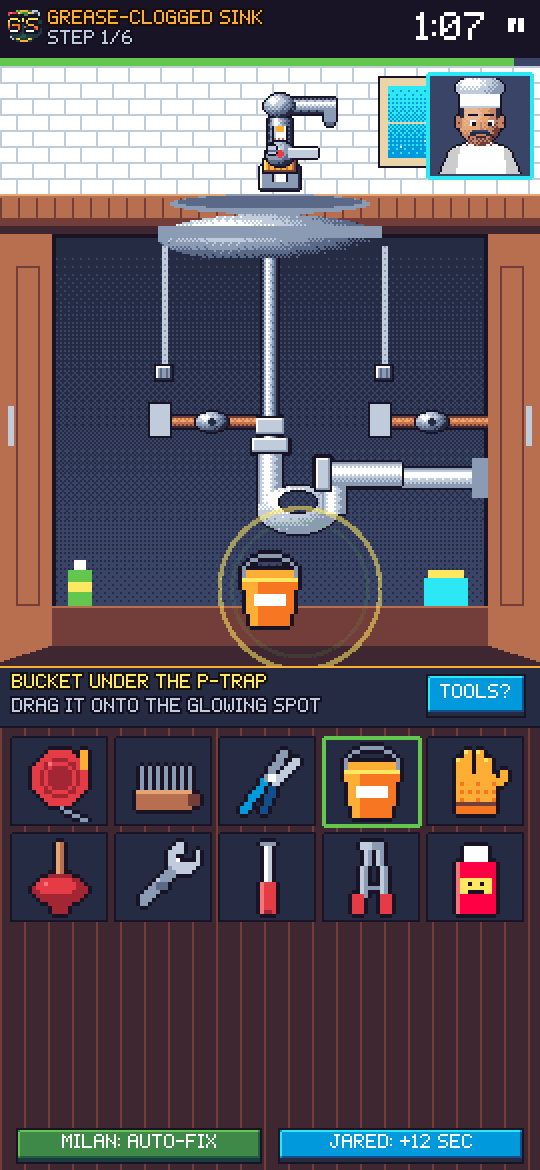
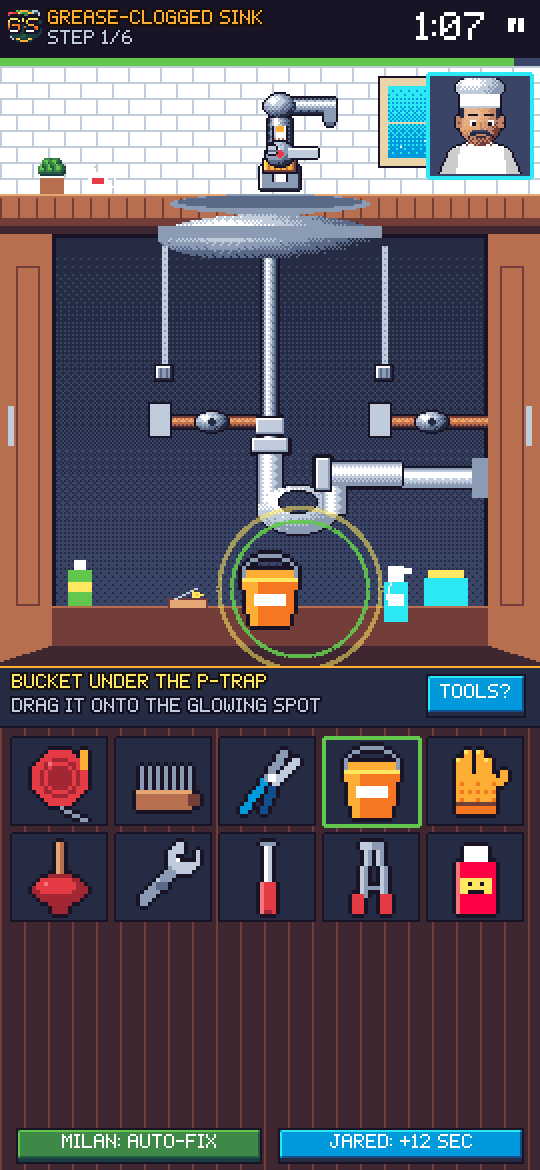
Props in every repair room; sweep-the-camera roots step; tributes to the crew
- Background jokes in each room (fishing-boat painting, lava lamp, rainbow mat, husky fur, cat poster,
  wine rack, surfboard + lights, rain boots, raccoon eyes, gnome, flamingo, banana slugs, crow...),
  all clear of the repair anchors and the customer portrait
- Sewer camera: the roots are now found by sweeping a camera light around a dark monitor (new 'scan'
  step type) instead of tapping small containers, which missed taps
- About + character sheet: a word from the boss about Dalton, Milan and Jared

diff --git a/src/art/fixtures.js b/src/art/fixtures.js
@@ -20,6 +20,45 @@ function wheel(p, cx, cy, r, ramp = RAMP.red) { p.ring(cx, cy, r, r, ramp[1]); p
 function concrete(p, x, y, w, h) { p.rect(x, y, w, h, C.slate); p.dither(x, y, w, h, C.steel, 0.15); p.dither(x, y, w, h, C.storm, 0.12); }
 function blocks(p, x, y, w, h) { concrete(p, x, y, w, h); for (let j = y; j < y + h; j += 16) { p.hline(x, j, w, C.storm); for (let i = x + ((j - y) / 16 % 2) * 16; i < x + w; i += 32) p.vline(i, j, 16, C.storm); } }
 
+
+// ------------------------------------------------------------------ FUN PROPS
+// Little background jokes per room (like Timmy's kayak and Boy the squirrel). Pure decoration: kept clear of
+// every anchor the repair steps use and of the customer portrait (top right).
+const PROP = {
+  tp(bg, x, y) { bg.rect(x, y, 18, 3, C.silver); bg.rect(x + 1, y + 3, 16, 12, C.white); bg.rect(x + 1, y + 3, 16, 2, C.silver); bg.vline(x + 9, y + 3, 12, C.silver); bg.rect(x + 12, y + 15, 5, 10, C.white); },
+  fishPic(bg, x, y) { bg.rect(x, y, 44, 32, C.brown); bg.rect(x + 3, y + 3, 38, 14, C.cyan); bg.rect(x + 3, y + 17, 38, 12, C.blue); bg.poly([[x + 12, y + 17], [x + 32, y + 17], [x + 28, y + 23], [x + 15, y + 23]], C.red); bg.rect(x + 20, y + 8, 2, 9, C.white); bg.poly([[x + 22, y + 8], [x + 29, y + 14], [x + 22, y + 14]], C.white); bg.px(x + 36, y + 7, C.yellow); },
+  mags(bg, x, y) { [[C.red, 0], [C.cyan, 3], [C.gold, 6], [C.lime, 9]].forEach(([c, d]) => { bg.rect(x + (d % 4), y - d, 30, 3, c); bg.hline(x + (d % 4) + 2, y - d + 1, 20, C.white); }); },
+  lava(bg, x, y) { bg.poly([[x + 4, y], [x + 12, y], [x + 16, y + 30], [x, y + 30]], C.hot); bg.ellipse(x + 8, y + 10, 3, 4, C.yellow); bg.ellipse(x + 7, y + 21, 4, 3, C.yellow); bg.rect(x + 2, y - 5, 12, 5, C.silver); bg.poly([[x - 2, y + 30], [x + 18, y + 30], [x + 15, y + 42], [x + 1, y + 42]], C.silver); },
+  cactus(bg, x, y) { bg.rect(x, y + 18, 16, 12, C.clay); bg.rect(x + 5, y, 6, 20, C.green); bg.rect(x + 1, y + 6, 4, 3, C.green); bg.rect(x + 1, y + 3, 2, 5, C.green); bg.rect(x + 11, y + 9, 4, 3, C.green); bg.rect(x + 13, y + 5, 2, 6, C.green); bg.px(x + 8, y - 1, C.hot); },
+  plant(bg, x, y) { bg.poly([[x + 4, y + 30], [x + 26, y + 30], [x + 23, y + 46], [x + 7, y + 46]], C.clay); [[x + 6, y + 10, -1], [x + 24, y + 8, 1], [x + 15, y, 0], [x + 10, y + 20, -1], [x + 22, y + 20, 1]].forEach(([cx, cy]) => { bg.blob(cx, cy, 8, 6, RAMP.green); bg.line(cx, cy, x + 15, y + 30, C.forest); }); },
+  rainbowMat(bg, x, y) { [C.red, C.flame, C.yellow, C.lime, C.blue, C.plum].forEach((c, i) => bg.rect(x, y + i * 3, 46, 3, c)); },
+  mug(bg, x, y) { bg.rect(x, y, 10, 11, C.white); bg.ring(x + 11, y + 5, 3, 3, C.white); bg.rect(x + 2, y + 3, 6, 3, C.red); bg.px(x + 3, y - 3, C.silver); bg.px(x + 6, y - 5, C.silver); },
+  herbs(bg, x, y) { bg.rect(x, y + 8, 12, 8, C.clay); for (let i = 0; i < 5; i++) bg.blob(x + 2 + i * 2, y + 4 - (i % 2) * 3, 3, 3, RAMP.green); },
+  trap(bg, x, y) { bg.rect(x, y, 20, 6, C.tan); bg.box(x, y, 20, 6, C.brown); bg.line(x + 3, y, x + 14, y - 5, C.silver); bg.poly([[x + 12, y - 4], [x + 19, y - 1], [x + 12, y]], C.yellow); bg.px(x + 14, y - 2, C.gold); },
+  spray(bg, x, y) { bg.rect(x, y + 8, 12, 20, C.cyan); bg.rect(x + 2, y, 8, 8, C.white); bg.rect(x + 9, y + 1, 5, 3, C.white); bg.line(x + 3, y + 8, x + 1, y + 16, C.white); bg.rect(x + 2, y + 14, 8, 6, C.white); },
+  tpPyramid(bg, x, y) { for (let r = 0; r < 3; r++) for (let i = 0; i < 3 - r; i++) { const px = x + i * 11 + r * 5, py = y - r * 10; bg.rect(px, py, 10, 10, C.white); bg.ellipse(px + 5, py + 5, 2, 2, C.silver); } },
+  cup(bg, x, y) { bg.rect(x, y + 6, 9, 10, C.cyan); bg.line(x + 3, y + 6, x + 1, y - 2, C.red); bg.line(x + 6, y + 6, x + 8, y - 1, C.lime); bg.rect(x, y - 3, 3, 2, C.white); bg.rect(x + 7, y - 2, 3, 2, C.white); },
+  fur(bg, x, y) { bg.blob(x, y, 9, 6, [C.steel, C.silver, C.white]); for (let i = 0; i < 8; i++) bg.px(x - 10 + (i * 5) % 20, y - 5 + (i * 3) % 10, C.silver); },
+  loofah(bg, x, y) { bg.blob(x, y, 8, 7, [C.hot, C.pink, C.white]); bg.line(x + 6, y - 5, x + 12, y - 12, C.pink); },
+  poster(bg, x, y) { bg.rect(x, y, 30, 38, C.white); bg.box(x, y, 30, 38, C.steel); bg.rect(x + 3, y + 3, 24, 22, C.cyan); bg.hline(x + 3, y + 6, 24, C.brown); bg.blob(x + 15, y + 13, 5, 4, [C.clay, C.tan]); bg.rect(x + 12, y + 6, 2, 5, C.clay); bg.rect(x + 16, y + 6, 2, 5, C.clay); bg.px(x + 13, y + 12, C.ink); bg.px(x + 17, y + 12, C.ink);
+    bg.art(x + 3, y + 28, ['#.#.###.#..#', '###.#.#.##.#', '#.#.###.#.##'], { '#': C.ink }); },
+  tpPack(bg, x, y) { bg.rect(x, y, 40, 24, C.white); bg.box(x, y, 40, 24, C.silver); for (let i = 0; i < 4; i++) bg.ellipse(x + 5 + i * 10, y + 4, 4, 2, C.silver); bg.rect(x + 4, y + 11, 32, 7, C.red); bg.art(x + 7, y + 12, ['###.###.#.#.#.#', '#...#.#.##..##.', '###.###.#.#.#.#'], { '#': C.white }); },
+  wine(bg, x, y) { bg.rect(x, y, 40, 44, C.brown); bg.box(x, y, 40, 44, C.umber); for (let r = 0; r < 3; r++) for (let i = 0; i < 3; i++) { bg.ellipse(x + 7 + i * 13, y + 8 + r * 14, 5, 5, C.umber); bg.ellipse(x + 7 + i * 13, y + 8 + r * 14, 3, 3, [C.crimson, C.forest, C.plum][(r + i) % 3]); } },
+  surfboard(bg, x, y) { bg.poly([[x + 6, y], [x + 14, y + 12], [x + 14, y + 110], [x + 7, y + 124], [x, y + 110], [x, y + 12]], C.yellow); bg.vline(x + 7, y + 6, 114, C.flame); bg.rect(x + 1, y + 50, 12, 6, C.cyan); },
+  lights(bg, x0, x1, y) { for (let x = x0; x < x1; x += 2) bg.px(x, y + Math.round(Math.sin(x / 9) * 3), C.forest); for (let x = x0 + 4, i = 0; x < x1; x += 12, i++) bg.rect(x, y + Math.round(Math.sin(x / 9) * 3) + 1, 3, 4, [C.red, C.lime, C.gold, C.cyan][i % 4]); },
+  cooler(bg, x, y) { bg.rect(x, y, 40, 22, C.blue); bg.rect(x, y, 40, 6, C.white); bg.rect(x + 14, y - 3, 12, 3, C.white); bg.rect(x + 16, y + 10, 8, 4, C.navy); },
+  boots(bg, x, y) { for (const dx of [0, 14]) { bg.rect(x + dx, y, 10, 20, C.gold); bg.rect(x + dx, y + 14, 14, 6, C.gold); bg.hline(x + dx, y + 19, 14, C.brown); bg.hline(x + dx, y, 10, C.yellow); } },
+  umbrella(bg, x, y) { bg.poly([[x + 10, y], [x + 18, y + 14], [x + 13, y + 70], [x + 7, y + 70], [x + 2, y + 14]], C.red); bg.vline(x + 10, y + 70, 16, C.ink); bg.line(x + 10, y + 86, x + 14, y + 90, C.ink); bg.vline(x + 10, y + 4, 60, C.crimson); },
+  eyes(bg, x, y) { for (const dx of [0, 7]) { bg.rect(x + dx, y, 3, 2, C.yellow); bg.px(x + dx + 1, y, C.white); } },
+  web(bg, x, y) { for (let a = 0; a < 5; a++) bg.line(x, y, x + Math.cos(a * 0.35) * 28, y + Math.sin(a * 0.35) * 28, C.steel); for (let r = 8; r < 28; r += 7) for (let a = 0; a < 4; a++) bg.line(x + Math.cos(a * 0.35) * r, y + Math.sin(a * 0.35) * r, x + Math.cos((a + 1) * 0.35) * r, y + Math.sin((a + 1) * 0.35) * r, C.steel); bg.rect(x + 18, y + 14, 3, 3, C.ink); },
+  frisbee(bg, x, y) { bg.ellipse(x, y, 11, 4, C.hot); bg.ellipse(x, y - 1, 7, 2, C.pink); },
+  gnome(bg, x, y) { bg.poly([[x + 8, y], [x + 15, y + 16], [x + 1, y + 16]], C.red); bg.rect(x + 3, y + 16, 10, 5, C.sand); bg.poly([[x + 3, y + 20], [x + 13, y + 20], [x + 8, y + 30]], C.white); bg.rect(x + 2, y + 24, 12, 14, C.blue); bg.rect(x + 2, y + 38, 5, 3, C.brown); bg.rect(x + 9, y + 38, 5, 3, C.brown); bg.px(x + 6, y + 18, C.ink); bg.px(x + 10, y + 18, C.ink); },
+  flamingo(bg, x, y) { bg.vline(x + 8, y + 24, 30, C.ink); bg.ellipse(x + 8, y + 20, 10, 6, C.hot); bg.thick(x + 12, y + 18, x + 16, y + 2, 2, C.hot); bg.ellipse(x + 16, y + 2, 3, 3, C.hot); bg.rect(x + 18, y + 2, 4, 2, C.ink); bg.px(x + 16, y + 1, C.ink); },
+  slug(bg, x, y) { bg.ellipse(x, y, 10, 3, C.yellow); bg.ellipse(x - 2, y - 1, 6, 2, C.gold); bg.px(x + 8, y - 4, C.gold); bg.px(x + 10, y - 4, C.gold); for (let i = -6; i < 6; i += 4) bg.px(x + i, y - 1, C.brown); },
+  crow(bg, x, y) { bg.ellipse(x, y, 9, 6, C.ink); bg.ellipse(x + 8, y - 5, 5, 4, C.ink); bg.poly([[x + 12, y - 6], [x + 17, y - 4], [x + 12, y - 3]], C.slate); bg.px(x + 9, y - 6, C.white); bg.poly([[x - 8, y - 2], [x - 16, y + 2], [x - 8, y + 3]], C.ink); bg.vline(x - 2, y + 6, 5, C.slate); bg.vline(x + 3, y + 6, 5, C.slate); },
+  hoseReel(bg, x, y) { bg.rect(x, y + 30, 44, 4, C.forest); bg.ring(x + 22, y + 16, 16, 16, C.forest); for (let r = 6; r < 16; r += 3) bg.ring(x + 22, y + 16, r, r, C.green); bg.ellipse(x + 22, y + 16, 4, 4, C.gold); bg.vline(x + 4, y + 16, 18, C.forest); bg.vline(x + 40, y + 16, 18, C.forest); },
+};
+
 // ------------------------------------------------------------------ TOILET
 function toilet(scene, v) {
   const bg = new PX(SW, SH);
@@ -33,6 +72,9 @@ function toilet(scene, v) {
   // valve on wall + pipe stub
   bg.rect(76, 242, 16, 8, C.silver); bg.box(76, 242, 16, 8, C.steel);
   bg.cylH(84, 232, 10, 6, RAMP.chrome); nut(bg, 90, 230, 6, 10);
+  if (v === 'clog') { PROP.fishPic(bg, 14, 70); PROP.tp(bg, 214, 150); PROP.mags(bg, 20, 270); }
+  if (v === 'tank') { PROP.lava(bg, 222, 200); PROP.cactus(bg, 26, 214); }
+  if (v === 'base') { PROP.rainbowMat(bg, 206, 262); PROP.plant(bg, 16, 196); }
   bg.outline(C.ink);
   bg.toTexture(scene, 'fx_toilet_' + v);
 
@@ -130,6 +172,8 @@ function sink(scene, v) {
   bg.rect(34, 252, 12, 18, C.lime); bg.rect(37, 247, 6, 5, C.white); bg.rect(34, 258, 12, 5, C.yellow);
   bg.rect(212, 256, 22, 14, C.cyan); bg.rect(214, 252, 18, 4, C.yellow);
   if (v === 'disposal') { bg.rect(30, 236, 16, 22, C.silver); bg.box(30, 236, 16, 22, C.steel); bg.rect(35, 240, 2, 4, C.ink); bg.rect(40, 240, 2, 4, C.ink); bg.rect(35, 250, 2, 4, C.ink); bg.rect(40, 250, 2, 4, C.ink); }
+  if (!vanity) { PROP.herbs(bg, 20, 48); PROP.mug(bg, 44, 53); PROP.trap(bg, 84, 266); PROP.spray(bg, 192, 250); }
+  if (v === 'vanity') { PROP.cup(bg, 34, 48); PROP.tpPyramid(bg, 56, 258); }
   bg.outline(C.ink);
   bg.toTexture(scene, 'fx_sink_' + v);
 
@@ -250,6 +294,7 @@ function shower(scene) {
   // shampoo army
   [[20, 30, C.hot], [34, 26, C.lime], [48, 32, C.gold], [230, 260, C.mauve]].forEach(([x, y, c]) => { bg.rect(x, y, 10, 14, c); bg.rect(x + 3, y - 3, 4, 3, C.white); });
   bg.ellipse(240, 40, 12, 8, C.yellow); bg.px(236, 37, C.white); // rubber duck-ish
+  PROP.fur(bg, 60, 236); PROP.fur(bg, 214, 128); PROP.fur(bg, 96, 90); PROP.loofah(bg, 32, 262);
   bg.outline(C.ink);
   bg.toTexture(scene, 'fx_shower');
   const parts = {};
@@ -332,6 +377,8 @@ function basement(scene, v) {
     // laundry sink
     bg.rect(226, 128, 44, 30, C.silver); bg.box(226, 128, 44, 30, C.ink); bg.rect(240, 122, 4, 8, C.silver);
   }
+  PROP.tpPack(bg, 86, 256);
+  if (v === 'prv') PROP.poster(bg, 98, 124); else PROP.wine(bg, 96, 204);
   bg.outline(C.ink);
   bg.toTexture(scene, 'fx_basement_' + v);
   const parts = {};
@@ -384,6 +431,7 @@ function heater(scene) {
   bg.rect(184, 50, 10, 8, C.gold); pipeV(bg, 188, 58, 180, 6);
   // burner panel
   bg.rect(112, 222, 46, 22, C.storm); bg.box(112, 222, 46, 22, C.ink); bg.rect(118, 228, 34, 10, C.ink);
+  PROP.surfboard(bg, 26, 122); PROP.lights(bg, 4, 266, 10); PROP.cooler(bg, 200, 240);
   bg.outline(C.ink);
   bg.toTexture(scene, 'fx_heater');
   const parts = {};
@@ -417,6 +465,7 @@ function sump(scene) {
   bg.rect(222, 96, 20, 28, C.white); bg.box(222, 96, 20, 28, C.steel); for (const y of [102, 114]) { bg.rect(228, y, 2, 4, C.ink); bg.rect(234, y, 2, 4, C.ink); }
   // floating drum kit (flavor)
   bg.ellipse(240, 200, 18, 12, C.red); bg.ring(240, 200, 18, 12, C.silver); bg.ellipse(240, 196, 16, 6, C.white);
+  PROP.umbrella(bg, 30, 180); PROP.boots(bg, 8, 274);
   bg.outline(C.ink);
   bg.toTexture(scene, 'fx_sump');
   const parts = {};
@@ -450,6 +499,7 @@ function crawl(scene) {
   for (let r = 0; r < 3; r++) for (let i = 0; i < 5 - r; i++) { const x = 186 + i * 14 + r * 7, y = 262 - r * 16; bg.cylV(x, y, 12, 15, RAMP.chrome); bg.rect(x, y + 4, 12, 7, [C.red, C.gold, C.lime][r]); }
   pipeH(bg, 0, 146, SW, 10);
   for (let x = 20; x < SW; x += 70) { bg.rect(x, 60, 2, 86, C.steel); bg.rect(x - 3, 144, 8, 2, C.steel); }
+  PROP.eyes(bg, 232, 118); PROP.web(bg, 16, 12); PROP.frisbee(bg, 56, 244);
   bg.outline(C.ink);
   bg.toTexture(scene, 'fx_crawl');
   const parts = {};
@@ -478,6 +528,7 @@ function yard(scene) {
   // cleanout stub
   bg.ellipse(140, 232, 22, 8, C.brown);
   bg.cylV(126, 196, 28, 36, RAMP.pvc); bg.ellipse(140, 196, 14, 4, C.white);
+  PROP.gnome(bg, 208, 196); PROP.flamingo(bg, 236, 146); PROP.slug(bg, 190, 280);
   bg.outline(C.ink);
   bg.toTexture(scene, 'fx_yard');
   const parts = {};
@@ -497,6 +548,7 @@ function bib(scene) {
   bg.rect(12, 12, 70, 10, C.ink);
   // bib body protruding
   bg.rect(128, 134, 24, 24, C.silver); bg.box(128, 134, 24, 24, C.steel); bg.cylH(146, 140, 34, 12, RAMP.brass); bg.cylV(172, 146, 12, 24, RAMP.brass); bg.rect(170, 168, 16, 6, C.gold);
+  PROP.hoseReel(bg, 18, 250); PROP.crow(bg, 232, 244); PROP.slug(bg, 70, 196);
   bg.outline(C.ink);
   bg.toTexture(scene, 'fx_bib');
   const parts = {};

diff --git a/src/scenes/Repair.js b/src/scenes/Repair.js
@@ -1,5 +1,5 @@
 import Phaser from 'phaser';
-import { W, H, txt, button, wipeTo, wipeIn, bubble, banner, floatText, panel, hitZone, isTouch } from '../core/ui.js';
+import { W, H, txt, setTxt, button, wipeTo, wipeIn, bubble, banner, floatText, panel, hitZone, isTouch } from '../core/ui.js';
 import { audio } from '../core/audio.js';
 import { progress } from '../core/save.js';
 import { C, hex } from '../core/palette.js';
@@ -13,7 +13,7 @@ const DRAG_SHOWS = { cartridge: 'cartNew', flapper: 'flapperNew', waxring: 'waxN
 const HOW = {
   turn: s => (s.dir > 0 ? 'CIRCLE CLOCKWISE  >>' : '<<  CIRCLE COUNTER-CLOCKWISE'), crank: () => 'CRANK CLOCKWISE. EASE OFF WHEN IT BINDS!', dial: () => 'TURN TO SET THE NEEDLE IN THE GREEN, THEN HOLD',
   rhythm: () => 'TAP WHEN THE MARKER IS IN THE GREEN', hold: s => `HOLD... RELEASE IN THE GREEN (${s.label || 'POWER'})`, drag: () => 'DRAG IT ONTO THE GLOWING SPOT',
-  pull: () => 'DRAG ALONG THE ARROW. DON\'T LET GO!', scrub: () => 'SCRUB BACK AND FORTH!', taps: () => 'TAP EVERY ONE!', tap: () => 'TAP IT!',
+  pull: () => 'DRAG ALONG THE ARROW. DON\'T LET GO!', scrub: () => 'SCRUB BACK AND FORTH!', taps: () => 'TAP EVERY ONE!', tap: () => 'TAP IT!', scan: () => 'DRAG THE CAMERA AROUND TO FIND THEM!',
 };
 const BAD_IDEAS = ['POUR DRAIN-O-MATIC IN IT', 'HIT IT WITH A HAMMER', 'CALL NORTHWEST FOR ADVICE', 'WIGGLE IT AND PRAY', 'DUCT TAPE THE WHOLE THING', 'SEND JARED FOR COFFEE', 'FLUSH IT AND RUN LIKE HELL', 'SNIFF IT TO DIAGNOSE', 'BLAME THE LAST PLUMBER', 'TAKE A DUMP IN IT FOR LUCK'];
 const GRIPES = ['ARE YOU SURE YOU\'RE A PLUMBER?', 'MY CAT COULD DO THAT BETTER.', 'IS THAT... SUPPOSED TO HAPPEN?', 'I\'M TIMING YOU, YOU KNOW.', 'NORTHWEST DID THAT TOO. BAD SIGN.', 'OH GOD. OH NO.', 'WHAT WAS THAT NOISE?!', 'WHAT THE HELL IS THAT SMELL?!', 'DID YOU JUST FART IN MY BATHROOM?', 'JESUS CHRIST, MY FLOOR!', 'I\'M PAYING YOU FOR THIS SHIT?!', 'PULL YOUR PANTS UP, I CAN SEE THE MOON.'];
@@ -247,6 +247,7 @@ export class Repair extends Phaser.Scene {
     if (s.type === 'pull') { A.part = this.parts[s.target]; A.base = A.part ? { x: A.part.x, y: A.part.y } : { x: a.x, y: a.y }; }
     if (s.type === 'scrub') { A.lastX = null; A.target = this.parts[s.target] || null; if (A.target) A.target.setVisible(true).setAlpha(1); }
     if (s.type === 'taps') this.spawnSpots(s);
+    if (s.type === 'scan') this.spawnScan(s);
     if (s.type === 'turn' || s.type === 'crank') { A.need = s.turns * 360 * (this.milan ? 0.8 : 1); A.wrong = 0; A.jamAt = []; if (s.type === 'crank') for (let j = 1; j <= s.jams; j++) A.jamAt.push(A.need * j / (s.jams + 1)); A.strain = 0; A.cable = 0; }
     if (s.type === 'tap') { /* just tap the anchor */ }
   }
@@ -254,7 +255,7 @@ export class Repair extends Phaser.Scene {
     this.phase = 'done';
     [this.ring, this.cursor, this.gauge].forEach(o => o && o.destroy()); this.ring = this.cursor = this.gauge = null;
     (this.spots || []).forEach(sp => sp.destroy()); this.spots = [];
-    if (this.monitor) { this.monitor.destroy(); this.monitor = null; }
+    if (this.monitor) { this.monitor.destroy(); this.monitor = null; } this.lamp = null;
     this.gfx.clear(); this.act = null; this.dragging = false;
   }
   near(p, a, extra = 20) { return Phaser.Math.Distance.Between(p.x, p.y, a.x, a.y) < a.r + extra; }
@@ -268,9 +269,11 @@ export class Repair extends Phaser.Scene {
     if (s.type === 'drag' && Phaser.Math.Distance.Between(p.x, p.y, this.cursor.x, this.cursor.y) < 36) { this.dragging = true; this.tweens.killTweensOf(this.cursor); }
     if (s.type === 'pull' && this.near(p, a, 30)) { A.start = { x: p.x, y: p.y }; A.active = true; }
     if (s.type === 'scrub') { A.lastX = p.x; A.lastY = p.y; }
+    if (s.type === 'scan') this.scanAt(p.x, p.y);
     if (s.type === 'tap' && this.near(p, a, 14)) { const pt = this.parts[s.target]; if (pt) this.tweens.add({ targets: pt, y: pt.y + 3, yoyo: true, duration: 90 }); if (s.fx && s.fx.includes('flush')) audio.sfx('flush'); else audio.sfx('click'); this.completeStep(); }
   }
   onMove(p) {
+    if (this.phase === 'act' && this.act && this.step.type === 'scan' && (p.isDown || !isTouch)) return this.scanAt(p.x, p.y); // mouse can just hover
     if (this.phase !== 'act' || !this.act || !p.isDown) return;
     const s = this.step, A = this.act, a = this.anchor(s.target || s.to);
     if ((s.type === 'turn' || s.type === 'crank' || s.type === 'dial') && A.active) {
@@ -362,6 +365,55 @@ export class Repair extends Phaser.Scene {
     if (s.target === 'hair') bubble(this, W - 60, SY + 60, pick(['OH MY GOD.', 'IS THAT... ALIVE?', "I'M GONNA BE SICK."]), { dur: 1400, tail: 'up' });
     if (s.target === 'junk') floatText(this, W / 2, SY + 100, 'ONE SMARTWATCH. 12,000 STEPS.', C.cyan, 160);
     this.completeStep();
+  }
+  // Sewer camera: roots hide in the dark pipe until the camera light passes over them.
+  spawnScan(s) {
+    this.spots = [];
+    const cx = W / 2, cy = SY + 110, mw = 200, mh = 130;
+    const m = this.monitor = this.add.container(0, 0).setDepth(44);
+    m.add(this.add.rectangle(cx, cy, mw, mh, hex(C.ink)).setStrokeStyle(3, hex(C.slate)));
+    for (let r = 60; r > 4; r -= 8) m.add(this.add.ellipse(cx, cy, r * 1.6, r * 1.1, [hex(C.umber), hex(C.brown), hex(C.clay)][(r / 8) % 3]));
+    m.add(this.add.ellipse(cx, cy, 16, 11, hex(C.ink)));
+    // it's dark down there, except where the camera light points
+    m.add(this.add.rectangle(cx, cy, mw - 4, mh - 4, hex(C.ink), 0.78));
+    m.add(txt(this, cx - 96, cy - 62, 'CAM 1  REC *  32 FT', { color: C.lime }));
+    this.scanLeft = txt(this, cx - 96, cy + 54, `ROOTS FOUND 0/${s.count}`, { color: C.gold }); m.add(this.scanLeft);
+    // the camera light follows your finger (or mouse); the tool icon rides along with it
+    this.lamp = this.add.circle(cx, cy, 28, hex(C.sand), 0.38).setStrokeStyle(2, hex(C.yellow), 0.9).setDepth(49);
+    m.add(this.lamp);
+    if (this.ring) this.ring.setVisible(false);
+    if (this.cursor) this.cursor.setPosition(cx + 24, cy - 22);
+    // hidden roots, spread across the pipe wall
+    const pts = []; let seed = 7 + this.ji * 13;
+    const rnd = () => { seed = (seed * 9301 + 49297) % 233280; return seed / 233280; };
+    while (pts.length < s.count) {
+      const x = cx - mw / 2 + 22 + rnd() * (mw - 44), y = cy - mh / 2 + 24 + rnd() * (mh - 40);
+      if (pts.every(([px, py]) => Math.hypot(px - x, py - y) > 46)) pts.push([x, y]);
+    }
+    this.need = pts.length; this.found = 0;
+    pts.forEach(([x, y]) => {
+      const sp = this.add.container(x, y).setDepth(48).setAlpha(0);
+      for (let k = 0; k < 6; k++) sp.add(this.add.rectangle(Phaser.Math.Between(-8, 8), Phaser.Math.Between(-8, 8), 2, Phaser.Math.Between(6, 14), hex(C.tan)).setAngle(Phaser.Math.Between(-60, 60)));
+      sp.rootX = x; sp.rootY = y; sp.found = false;
+      this.spots.push(sp);
+    });
+  }
+  scanAt(x, y) {
+    if (!this.lamp || this.phase !== 'act') return;
+    const cx = W / 2, cy = SY + 110;
+    this.lamp.setPosition(Phaser.Math.Clamp(x, cx - 96, cx + 96), Phaser.Math.Clamp(y, cy - 61, cy + 61));
+    if (this.cursor) this.cursor.setPosition(this.lamp.x + 24, this.lamp.y - 22);
+    for (const sp of this.spots) {
+      if (sp.found || Math.hypot(sp.rootX - this.lamp.x, sp.rootY - this.lamp.y) > 30) continue;
+      sp.found = true; this.found++;
+      audio.sfx('ding'); this.sparkle(sp.rootX, sp.rootY);
+      this.tweens.add({ targets: sp, alpha: 1, duration: 120 });
+      this.tweens.add({ targets: sp, angle: 10, yoyo: true, repeat: -1, duration: 300 });
+      sp.add(this.add.circle(0, 0, 13, 0xffffff, 0).setStrokeStyle(2, hex(C.red)));
+      floatText(this, sp.rootX, sp.rootY - 14, 'ROOT!', C.red, 160);
+      setTxt(this.scanLeft, `ROOTS FOUND ${this.found}/${this.need}`);
+      if (this.found >= this.need) this.time.delayedCall(450, () => { if (this.phase === 'act') this.completeStep(); });
+    }
   }
   spawnSpots(s) {
     this.spots = [];

diff --git a/src/dev/docs.js b/src/dev/docs.js
@@ -12,6 +12,7 @@ import { HEROES, RIVALS, DISTRICTS, ORDER, districtJobs } from '../data/content.
 import { JOBS, TOOL_INFO } from '../data/jobs.js';
 import { portrait, body } from '../art/people.js';
 import { houseTextures } from '../art/houses.js';
+import { HOMIE_TRIBUTES } from '../data/about.js';
 
 const sleep = ms => new Promise(r => setTimeout(r, ms));
 async function save(path, canvas) {
@@ -102,7 +103,7 @@ async function introSheet(game) {
 // Character sheet for The Homies: every mood, the full-body sprite, stats, perk and assist.
 function homiesSheet(scene) {
   const moods = ['happy', 'smug', 'neutral', 'worried', 'angry', 'yell'];
-  const colW = 420, pad = 30, W = HEROES.length * colW + pad * 2, H = 1070;
+  const colW = 420, pad = 30, W = HEROES.length * colW + pad * 2, H = 1140;
   const cv = document.createElement('canvas'); cv.width = W; cv.height = H;
   const x = cv.getContext('2d'); x.imageSmoothingEnabled = false; x.fillStyle = C.ink; x.fillRect(0, 0, W, H);
   const draw = (key, frame, dx, dy, k) => { const t = scene.textures.get(key); const fr = t.get(frame ?? '__BASE'); x.drawImage(t.getSourceImage(), fr.cutX, fr.cutY, fr.width, fr.height, dx, dy, fr.width * k, fr.height * k); return fr; };
@@ -113,7 +114,8 @@ function homiesSheet(scene) {
     x.fillStyle = C.night; x.fillRect(cx, y, w, H - y - pad); x.strokeStyle = h.color; x.lineWidth = 3; x.strokeRect(cx, y, w, H - y - pad);
     y += 16;
     const nm = new PX(120, 16); logoText(nm, 2, 2, h.name, 1, [C.brown, C.gold, C.yellow], { shadow: C.ink }); x.drawImage(nm.commit(), cx + 14, y, 360, 48); y += 58;
-    x.fillStyle = h.color; x.font = FONT.replace('{n}', 22); x.fillText(h.role, cx + 18, y); y += 22;
+    x.fillStyle = h.color; x.font = FONT.replace('{n}', 22); x.fillText(h.role, cx + 18, y); y += 26;
+    x.fillStyle = C.gold; x.font = 'italic ' + FONT.replace('{n}', 16); y = wrap(x, HOMIE_TRIBUTES[h.id], cx + 18, y, w - 36, 20) + 2;
     // six moods, 3 x 2
     moods.forEach((m, k) => { const px = cx + 18 + (k % 3) * 128, py = y + Math.floor(k / 3) * 150; draw(portrait(scene, h.id, h.look, m), undefined, px, py, 2.5); x.fillStyle = C.slate; x.font = FONT.replace('{n}', 15); x.fillText(m.toUpperCase(), px + 4, py + 136); });
     y += 310;

diff --git a/src/data/jobs.js b/src/data/jobs.js
@@ -10,6 +10,7 @@
 //   scrub  - scrub back and forth until clean
 //   taps   - tap every hotspot (leaks, roots, debris)
 //   tap    - tap one thing (a handle, a button)
+//   scan   - sweep a camera light around a monitor; whatever it passes over is found (sewer camera)
 // Anchor names (target / to) are defined by each scene in art/fixtures.js.
 
 const TOOLS_BASE = ['hand'];
@@ -217,7 +218,7 @@ export const JOBS = [
     call: 'EVERY DRAIN IN THE HOUSE GURGLES. THE BASEMENT SMELLS OF... POOR PEOPLE. KINDLY REMEDY THIS.', decoys: ['drano', 'hammer'],
     steps: [
       { t: 'OPEN THE CLEANOUT CAP', tool: 'wrench', type: 'turn', target: 'cap', dir: -1, turns: 1.5, tip: 'CAREFUL - A BACKED-UP LINE WILL BURP WHEN THE CAP COMES OFF. STAND TO THE SIDE.' , fx: ['away:cap'] },
-      { t: 'CAMERA: FIND THE ROOTS', tool: 'camera', type: 'taps', target: 'screen', count: 4, tip: 'OLD CLAY PIPE + 100-YEAR-OLD CEDARS = ROOTS IN EVERY JOINT. SPOT THEM ALL.' },
+      { t: 'CAMERA: FIND THE ROOTS', tool: 'camera', type: 'scan', target: 'screen', count: 4, tip: 'OLD CLAY PIPE + 100-YEAR-OLD CEDARS = ROOTS IN EVERY JOINT. SWEEP THE CAMERA AND SPOT THEM ALL.' },
       { t: 'DRUM AUGER + ROOT CUTTER', tool: 'drum', type: 'crank', target: 'cap', turns: 4, jams: 3, tip: 'FEED SLOWLY. WHEN IT GRABS, BACK OFF AND LET THE CUTTER CHEW.' },
       { t: 'HYDRO-JET THE LINE', tool: 'jetter', type: 'rhythm', target: 'cap', hits: 4, tip: 'HIGH-PRESSURE WATER SCOURS ROOT HAIR OFF THE PIPE WALLS.' },
       { t: 'CAP THE CLEANOUT', tool: 'wrench', type: 'turn', target: 'cap', dir: 1, turns: 1.25, tip: 'RECOMMEND A LINER OR REPLACEMENT. THE ROOTS WILL BE BACK. THEY ALWAYS COME BACK.' , pre: ['restore:cap'] },

diff --git a/src/scenes/About.js b/src/scenes/About.js
@@ -3,7 +3,7 @@ import { W, H, txt, setTxt, button, wipeTo, wipeIn, panel, isTouch } from '../co
 import { audio } from '../core/audio.js';
 import { C, hex } from '../core/palette.js';
 import { HEROES, DISTRICTS, districtJobs, jobNo } from '../data/content.js';
-import { CREW_BLURB, HOMIE_BIOS, HOODS } from '../data/about.js';
+import { CREW_BLURB, HOMIE_BIOS, HOMIE_TRIBUTES, HOODS } from '../data/about.js';
 import { portrait } from '../art/people.js';
 
 const SITE = 'https://timknab.dev';
@@ -74,14 +74,15 @@ export class About extends Phaser.Scene {
     this.add2(txt(this, W / 2, 38, 'THE HOMIES', { ox: 0.5, size: 2, color: C.gold }));
     const intro = this.add2(txt(this, W / 2, 58, CREW_BLURB, { ox: 0.5, maxW: W - 40, align: 1, color: C.white }));
     let y = 58 + intro.height + 12;
-    const cardH = Math.min(86, Math.floor((H - 66 - y) / 3) - 6);
+    const cardH = Math.floor((H - 66 - y) / 3) - 6;
     HEROES.forEach(h => {
       this.add2(panel(this, 6, y, W - 12, cardH));
       this.add2(this.add.rectangle(34, y + 30, 52, 52, hex(C.storm)).setStrokeStyle(2, hex(h.color)));
       this.add2(this.add.image(34, y + 30, portrait(this, h.id, h.look, 'smug')));
       this.add2(txt(this, 66, y + 7, h.name, { color: h.color, size: 2 }));
       this.add2(txt(this, 66, y + 25, h.role, { color: C.gold }));
-      this.add2(txt(this, 66, y + 39, HOMIE_BIOS[h.id], { maxW: W - 80, color: C.white }));
+      const bio = this.add2(txt(this, 66, y + 39, HOMIE_BIOS[h.id], { maxW: W - 80, color: C.white }));
+      this.add2(txt(this, 66, y + 45 + bio.height, HOMIE_TRIBUTES[h.id], { maxW: W - 80, color: C.gold }));
       y += cardH + 6;
     });
   }

diff --git a/src/dev/smoke.js b/src/dev/smoke.js
@@ -33,6 +33,7 @@ async function playJob(g, i) {
       if (s.type === 'pull') { r.onDown({ id: 1, x: a.x, y: a.y }); for (let k = 1; k <= 12 && r.phase === 'act'; k++) r.onMove({ id: 1, isDown: true, x: a.x + s.dir[0] * s.dist * k / 10, y: a.y + s.dir[1] * s.dist * k / 10 }); }
       if (s.type === 'scrub') { r.onDown({ id: 1, x: a.x - 10, y: a.y }); for (let k = 0; k < 600 && r.phase === 'act'; k++) r.onMove({ id: 1, isDown: true, x: a.x + (k % 2 ? 12 : -12), y: a.y }); }
       if (s.type === 'taps') { for (const sp of [...r.spots]) sp.emit('pointerdown'); }
+      if (s.type === 'scan') { for (const sp of [...r.spots]) { r.scanAt(sp.rootX, sp.rootY); await sleep(40); } await sleep(600); }
       if (s.type === 'tap') r.onDown({ id: 1, x: a.x, y: a.y });
     } catch (e) { log.push('ERR step ' + t0 + ' ' + s.type + ': ' + e.message); break; }
     await sleep(40);

diff --git a/src/data/about.js b/src/data/about.js
@@ -3,6 +3,13 @@
 
 export const CREW_BLURB = 'HARD WORK, BIG BRAINS, STRONG BACKS. THEY SHOW UP WHEN YOUR DAY IS UNDERWATER AND FIX IT RIGHT.';
 
+// A word from the boss about each homie (shown on the About page and the character sheet).
+export const HOMIE_TRIBUTES = {
+  dalton: 'DEEP THINKER, DEEPER HEART, AND AN ARTIST, ALL IN ONE. A NATIONAL TREASURE.',
+  milan: 'UNMATCHED STRENGTH AND PERSEVERANCE. A WARRIOR MIND.',
+  jared: 'A HEART OF COMPASSION AND CARE: STRENGTH, HONOR, INTELLIGENCE AND KINDNESS. A PROTECTOR.',
+};
+
 export const HOMIE_BIOS = {
   dalton: 'FIRST ON SCENE, FIRST TO THE SHUTOFF. STOPS THE WATER, THEN FIXES THE PROBLEM. KNOWS EVERY SHORTCUT IN TOWN.',
   milan: 'READS A DRAIN LIKE A MAP. SLOPE, PRESSURE, FLOW: HE SOLVES IT IN HIS HEAD BEFORE HE PICKS UP A WRENCH.',

diff --git a/tests/content.test.js b/tests/content.test.js
@@ -3,7 +3,7 @@ import assert from 'node:assert/strict';
 import { JOBS, TOOL_INFO, trayFor } from '../src/data/jobs.js';
 import { HEROES, DISTRICTS, difficulty, ORDER } from '../src/data/content.js';
 
-const TYPES = ['turn', 'crank', 'dial', 'rhythm', 'hold', 'drag', 'pull', 'scrub', 'taps', 'tap'];
+const TYPES = ['turn', 'crank', 'dial', 'rhythm', 'hold', 'drag', 'pull', 'scrub', 'taps', 'tap', 'scan'];
 
 test('16 jobs in 6 neighborhoods, Alki required before Queen Anne', () => {
   assert.equal(JOBS.length, 16);

diff --git a/README.md b/README.md
@@ -24,6 +24,8 @@ then fix real plumbing problems before the customer loses it and calls the compe
   one-shot assists: *Dalton clears the road*, *Milan auto-fixes a step*, *Jared sweet-talks +12s*.
 - **Welcome to the neighborhood.** Each district opens with pixel art of the real place (the Ballard Locks,
   the Fremont Troll, Capitol Hill's rainbow crosswalk, the West Seattle Junction, the Kerry Park view, Alki Beach).
+- **Something to find in every room.** A lava lamp in Fremont, husky fur in the shower, a cat poster in the
+  basement, garden gnomes and banana slugs in Queen Anne, glowing raccoon eyes in the crawlspace.
 - **About pages.** Meet the crew (what each homie brings: brains, back, bedside manner) and flip through all six
   neighborhoods with their pixel art, a bit of real history and the plumbing you'll find there.
 - **New here?** Tap **HOW TO PLAY** on the title screen (first-time players see it automatically).
@@ -37,7 +39,7 @@ then fix real plumbing problems before the customer loses it and calls the compe
   actual house at the end.
 - **The repair.** Each job is the real sequence a plumber follows. Every step: grab the right tool from the truck
   tray, then do the gesture (circle to turn valves — righty-tighty matters — plunge in rhythm, hold for torque,
-  drag parts, pull, scrub, tap leaks). Wrong tools and wrong order cost time and make the customer madder.
+  drag parts, pull, scrub, tap leaks, sweep a sewer camera). Wrong tools and wrong order cost time and make the customer madder.
   A pro tip explains each real step.
 - **16 jobs** across 6 neighborhoods: Ballard, Fremont, Capitol Hill, West Seattle, then **Alki Beach** (Timmy's
   clogged tub, required) before the Queen Anne showdown. Rising difficulty: longer, faster races; a meaner,
